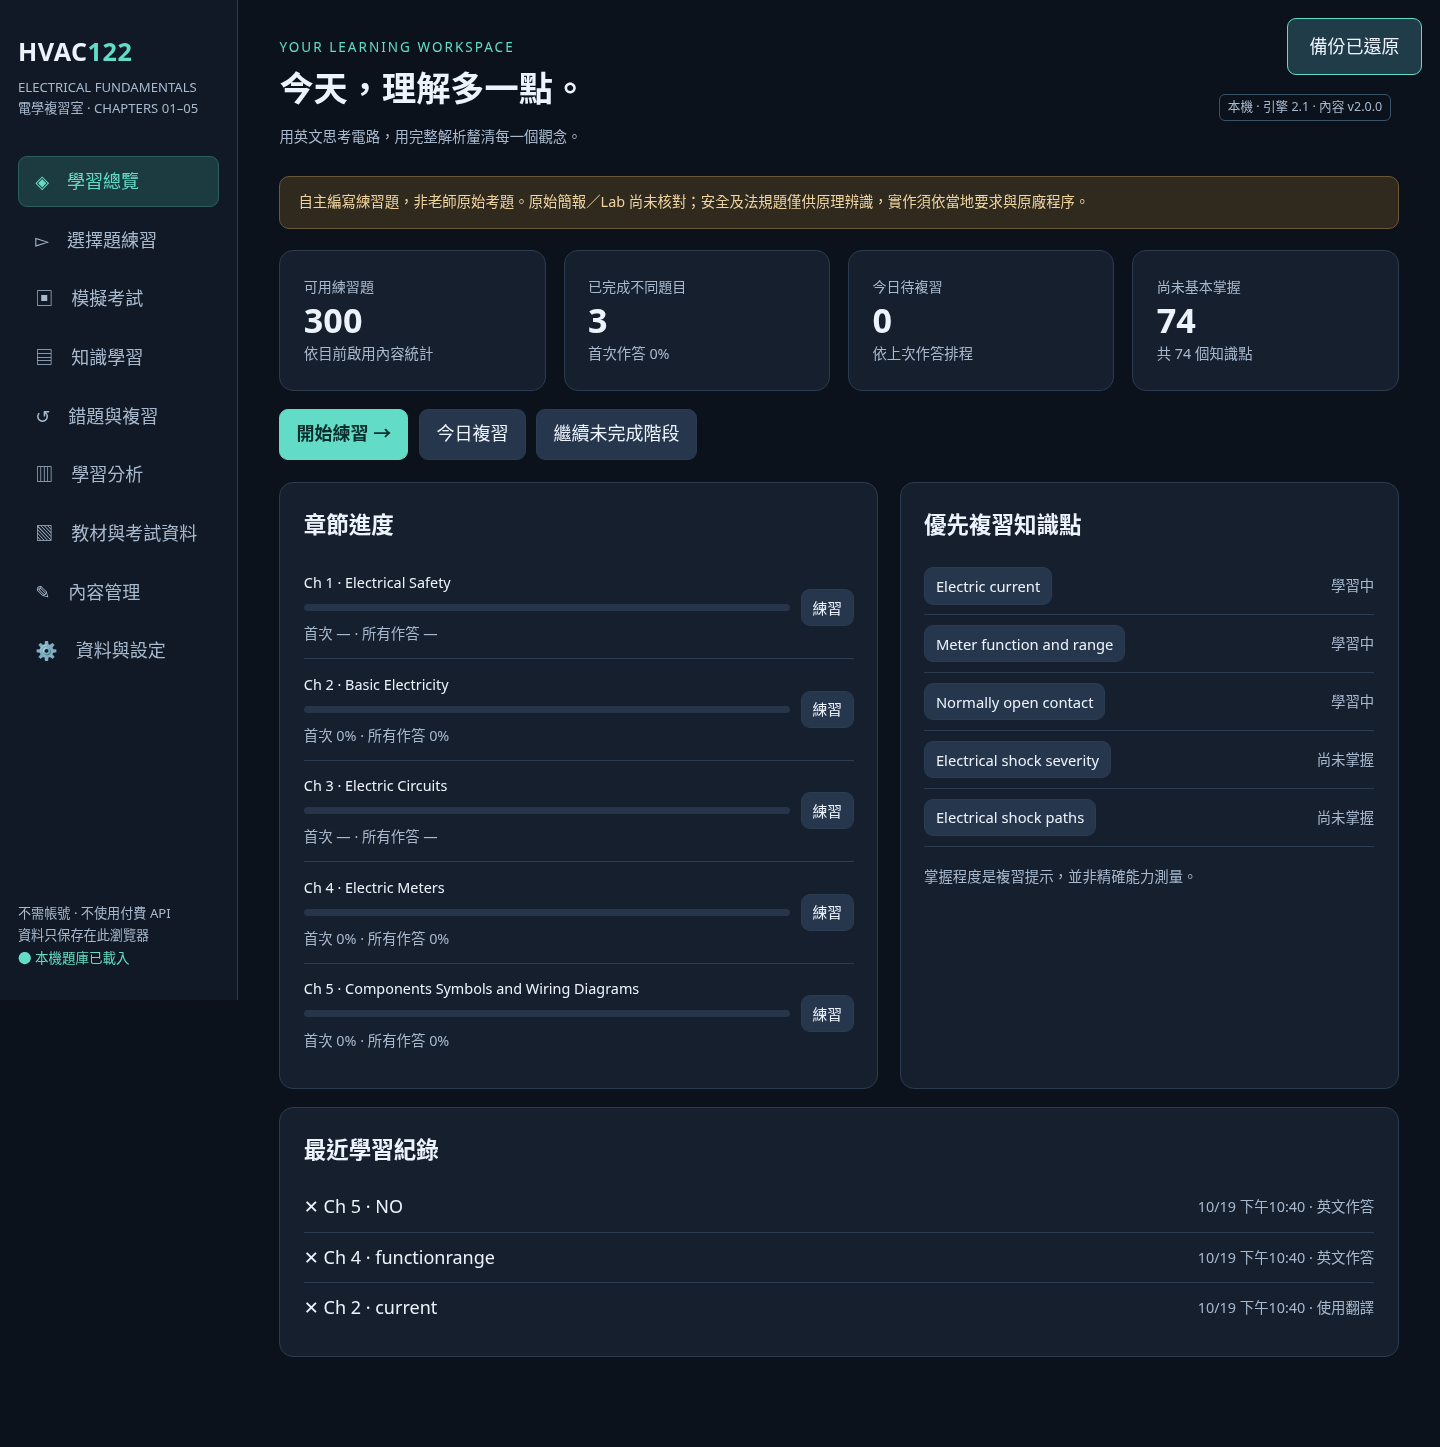
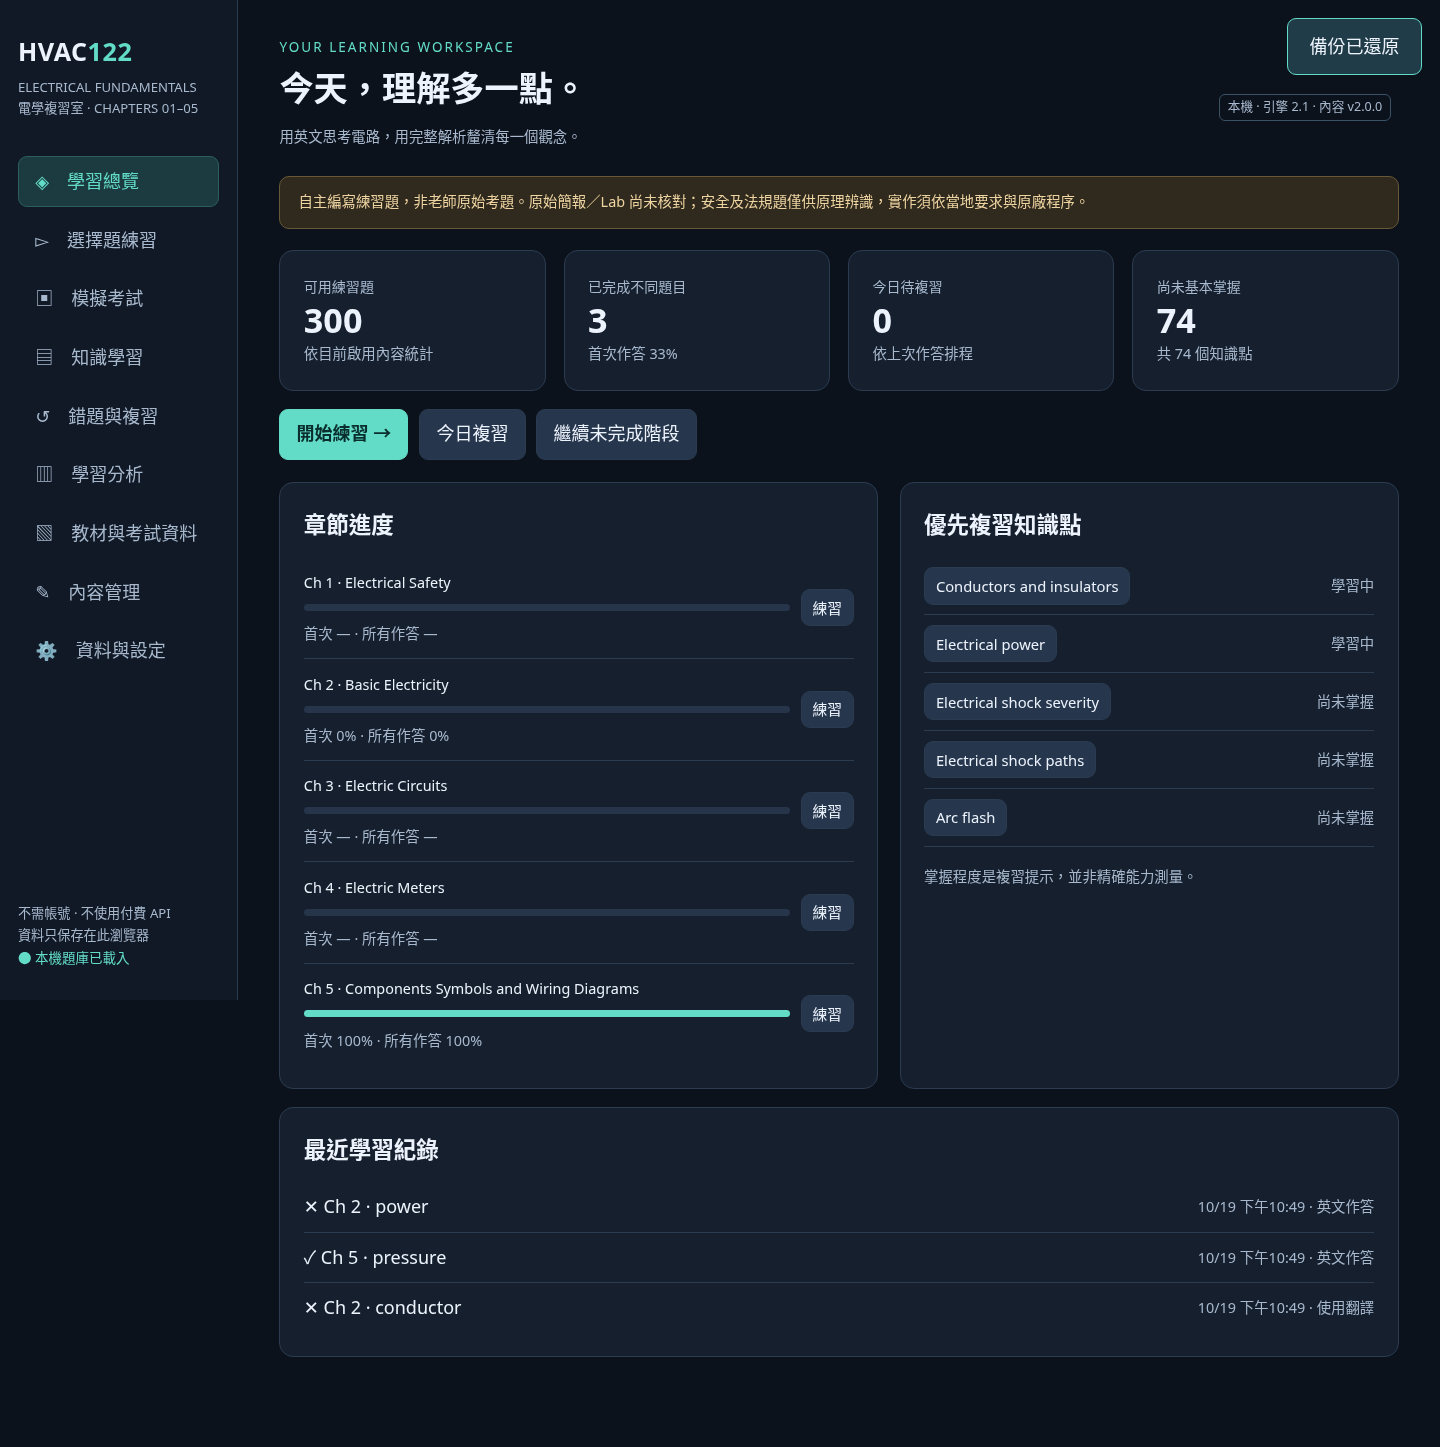
Preserve editor inputs while asynchronously refreshing attachments

diff --git a/app/manage.js b/app/manage.js
@@ -16,7 +16,7 @@ function source(file,record,verified,note){return {file,record,original_verified
 function current(){return edit?pack[tab].find(x=>x.id===edit):null;}
 function save(next){if(draftBroken)throw Error('請先匯出損壞原值並使用「重建草稿」');M.saveDraft(localStorage,next,base);pack=next;preview=null;notify('草稿已保存在此瀏覽器；發布後才套用到練習。');}
 function download(data,name){const a=document.createElement('a');a.href=URL.createObjectURL(new Blob([typeof data==='string'?data:JSON.stringify(data,null,2)],{type:'application/json'}));a.download=name;a.click();setTimeout(()=>URL.revokeObjectURL(a.href),1500);}
-async function refreshFiles(){try{files=await HVAC_MATERIALS.list();fileWarning='';}catch(err){fileWarning=err.message;}if(tab==='resources')render();}
+async function refreshFiles(){try{files=await HVAC_MATERIALS.list();fileWarning='';}catch(err){fileWarning=err.message;}if(tab==='resources'){const list=$('#attachment-list'),notice=$('#attachment-warning');if(list)list.innerHTML=fileRows();if(notice){notice.textContent=fileWarning;notice.className=fileWarning?'notice':'';}}}
 function render(){const report=M.inspect(pack);$('#manager').innerHTML=`<div class="layout"><aside class="sidebar"><div class="brand">HVAC<span>122</span></div><div class="subbrand">CONTENT WORKSPACE<br>系統底座 · 內容與程式分離</div><a href="index.html" class="back-link">← 回到練習工具</a><nav class="nav">${Object.entries(names).map(([id,n])=>`<button data-action="tab" data-id="${id}" class="${tab===id?'active':''}">${n}</button>`).join('')}</nav><div class="foot">本機管理，沒有登入／雲端上傳<br>編輯 → 儲存草稿 → 檢查 → 發布</div></aside><main class="main"><div class="eyebrow">REUSABLE LEARNING FOUNDATION · 2.1</div><h1>${names[tab]}</h1><p class="muted">程式引擎固定，教材、題目與考試可以持續補充。</p>${warning?`<div class="notice">${e(warning)} <button data-action="raw">下載儲存原值</button>${draftBroken?'<button data-action="repair">重建草稿</button>':''}</div>`:''}<div class="notice">這是本機內容管理入口，不是具帳號權限的多人後台。請先匯出備份；關閉瀏覽器不等於已發布內容。發布不會覆寫學習紀錄或原始教材。</div>${tab==='home'?home(report):tab==='exchange'?exchange():editorPage()}<div id="result" aria-live="polite"></div></main></div>`;}
 function home(report){const r=report.stats;return `<div class="grid">${[['題目',r.questions],['已啟用／草稿',r.enabled+' / '+r.drafts],['知識點',r.knowledge],['考試設定',r.exams]].map(([a,b])=>`<div class="card"><div class="metric-label">${a}</div><div class="metric">${b}</div></div>`).join('')}</div><section class="card"><h2>這一份內容的設定</h2><div class="forms">${field('pack-title','課程／內容名稱',pack.title)}${field('pack-version','內容版本（變更內容必須換版）',pack.version===active.version?pack.version+'-local.1':pack.version)}</div><div class="actions"><button data-action="meta">儲存名稱與版本</button><button class="primary" data-action="publish-preview">檢查並準備發布</button><button data-action="export">匯出完整內容包</button></div><p class="muted smalltext mt">啟用中的版本：${e(active.version)}。首頁及練習只會載入最後發布的版本。發布後回到練習頁重新載入即可。</p>${preview?`<div class="notice mt"><strong>發布預覽</strong><p>${preview.stats.enabled} 題可練習、${preview.stats.drafts} 題保持草稿、${pack.examProfiles.filter(x=>x.enabled).length} 組已啟用考試、${preview.stats.resources} 份文字教材。${preview.warnings.length} 項重複提醒。</p><p>未完成的練習／考試遇到移除題目可能無法接續，請先完成或備份。既有作答紀錄會保留。</p><button class="primary" data-action="publish">確認啟用此內容</button></div>`:''}</section><section class="card"><h2>下一步怎麼填內容</h2><ol><li>在「知識點編輯」建立或選擇題目所對應的知識點。</li><li>在「題庫編輯」填雙語題目、四選項、答案及逐項解析，先儲存草稿。</li><li>在「教材／考試資料」貼上課程筆記，或保存本機原始文件。</li><li>在「考試設定」建立章節／題型篩選或指定題目清單。</li><li>核對新題後勾選啟用，再回總覽更新版本、檢查並發布。</li></ol><p class="muted">AI 可以使用匯出的完整內容包及範例格式協助整理；工具本身不呼叫 AI，也不會自動把教材上傳給 AI。</p></section><section class="card"><h2>版本與復原</h2><div class="actions"><button data-action="previous">將上次發布內容載入草稿</button><button data-action="builtin">將內建內容載入草稿</button></div><p class="muted smalltext mt">這些動作只替換草稿，不會立刻改變練習題庫；先匯出目前草稿，再按發布才會套用。</p></section>`;}
 function editorPage(){const all=pack[tab],filtered=all.filter(x=>!search||JSON.stringify(x).toLowerCase().includes(search.toLowerCase())),x=current();
@@ -26,7 +26,8 @@ function questionForm(q){q=q||{};return `<div class="forms">${field('id','Questi
 function knowledgeForm(k){k=k||{};return `<div class="forms">${field('id','Knowledge ID',k.id||uid('USER-K'))}${chapterSelect('chapter',k.chapter||1)}${field('term-en','English Term',k.term_en||'')}${field('term-zh','繁體中文名稱',k.term_zh||'')}${field('topic','Topic',k.topic_key||'')}${select('class','內容分類',[['technical_principle','技術原理'],['classroom_model','課堂簡化模型'],['safety_principle','安全原理'],['unverified','待核對']],k.content_class||'unverified')}</div>${field('definition','英文定義',k.definition_en||'',true)}${field('explanation','中文原理解釋',k.explanation_zh||'',true)}${field('application','HVAC 應用',k.hvac_application||'',true)}${field('formulas','相關公式（每行一個，可留空）',(k.related_formulas||[]).join('\n'),true)}${field('misconceptions','常見誤解（每行一個）',(k.common_misconceptions||[]).join('\n'),true)}${field('exam-note','課堂／考試簡化說法',k.exam_note_en||'No course-specific simplification has been verified.',true)}${field('source','來源位置／檔名',k.source_reference?.file||'local-authoring')}${field('limitations','來源限制',k.source_limitations||'原始講義與適用條件尚待核對。',true)}`;}
 function examForm(x){x=x||{};return `<div class="forms">${field('id','Exam ID',x.id||uid('EXAM'))}${field('name','考試名稱',x.name||'')}${field('count','題數（1–300）',x.count||20)}${field('minutes','分鐘（留空為不計時）',x.minutes??'')}${field('chapters','章節篩選（逗號分隔，例如 1,2；空白全選）',(x.chapters||[]).join(','))}${field('types','題型篩選（逗號分隔；空白全選）',(x.types||[]).join(','))}</div><p class="muted smalltext">題型：recall、understanding、application、calculation。</p>${field('fixed-ids','指定題目 ID（每行一題；填入時優先於章節／題型篩選）',(x.questionIds||[]).join('\n'),true)}${field('description','考試說明',x.description||'',true)}${check('enabled','啟用此考試設定',x.enabled)}<p class="muted smalltext">啟用時會檢查可用題數，草稿／停用題不能進考試。試題與正解仍由現有練習引擎處理。</p>`;}
 function resourceForm(r){r=r||{};return `<div class="forms">${field('id','Resource ID',r.id||uid('NOTE'))}${field('title','教材／考試資料標題',r.title||'')}${chapterSelect('chapter',r.chapter||'',true)}${select('kind','分類',[['lecture','課堂教材'],['lab','Lab'],['exam','考試資料'],['other','其他']],r.kind||'lecture')}</div>${field('text','教材文字／考試範圍說明',r.text||'',true)}${field('source','原始來源位置',r.source||'使用者輸入')}${check('verified','已對照原始來源',r.verified)}<p class="muted smalltext">文字只作教材保存，不會自動變成題目或正確答案。</p>`;}
-function attachmentPanel(){return `<section class="card"><h2>原始文件附件（保存在此瀏覽器）</h2><p class="muted smalltext">可保存 PDF、PPTX、DOCX、圖片等，每份上限 25 MB。不會上傳或自動解析；教材與考試文件可保留給日後人工或 AI 整理。</p>${fileWarning?`<div class="notice">${e(fileWarning)}</div>`:''}<div class="forms">${select('file-kind','附件分類',[['lecture','教材'],['lab','Lab'],['exam','考試'],['other','其他']],'lecture')}${chapterSelect('file-chapter','',true)}<label>選擇本機文件<input type="file" id="attachment"></label></div><p class="notice">內容包 JSON 不含原始附件。請保留原檔或逐份下載；清除瀏覽器資料會移除附件。</p>${files.map(f=>`<div class="row"><div><strong>${e(f.name)}</strong><div class="muted smalltext">${e(f.kind)} · ${Math.round(f.size/1024)} KB · ${f.chapter?'Ch '+f.chapter:'未指定章節'}</div></div><button data-action="file-download" data-id="${e(f.id)}">下載原檔</button></div>`).join('')||'<p class="muted">尚未保存附件。</p>'}</section>`;}
+function fileRows(){return files.map(f=>`<div class="row"><div><strong>${e(f.name)}</strong><div class="muted smalltext">${e(f.kind)} · ${Math.round(f.size/1024)} KB · ${f.chapter?'Ch '+f.chapter:'未指定章節'}</div></div><button data-action="file-download" data-id="${e(f.id)}">下載原檔</button></div>`).join('')||'<p class="muted">尚未保存附件。</p>';}
+function attachmentPanel(){return `<section class="card"><h2>原始文件附件（保存在此瀏覽器）</h2><p class="muted smalltext">可保存 PDF、PPTX、DOCX、圖片等，每份上限 25 MB。不會上傳或自動解析；教材與考試文件可保留給日後人工或 AI 整理。</p><div id="attachment-warning" class="${fileWarning?'notice':''}">${e(fileWarning)}</div><div class="forms">${select('file-kind','附件分類',[['lecture','教材'],['lab','Lab'],['exam','考試'],['other','其他']],'lecture')}${chapterSelect('file-chapter','',true)}<label>選擇本機文件<input type="file" id="attachment"></label></div><p class="notice">內容包 JSON 不含原始附件。請保留原檔或逐份下載；清除瀏覽器資料會移除附件。</p><div id="attachment-list">${fileRows()}</div></section>`;}
 function exchange(){return `<section class="card"><h2>匯出給人或 AI 接手</h2><p>「完整內容包」包含章節、知識點、題目、考試設定與文字教材；不包含學習紀錄及原始附件。</p><div class="actions"><button class="primary" data-action="export">匯出目前完整內容包</button><button data-action="example">下載空白範例內容包</button><button data-action="ai-guide">下載 AI 接手指示</button></div><p class="muted smalltext mt">之後讓 AI 修改這份內容包，再匯入即可。開發者完整契約在交付包的 FOUNDATION.md 及 templates/，不需要 AI 重寫引擎。</p></section><section class="card"><h2>匯入內容包 JSON</h2>${select('import-mode','匯入方式',[['merge','依 ID 合併進目前草稿'],['replace','整份取代草稿']],importMode)}<label class="mt">選擇內容包<input type="file" id="content-import" accept=".json,application/json"></label>${imported?`<div class="notice mt">已讀取 ${e(imported.pack.title)}，${imported.report.stats.questions} 題、${imported.report.stats.knowledge} 知識點、${imported.report.stats.exams} 考試設定。${imported.report.warnings.length} 項提醒。<button data-action="apply-import">確認寫入草稿</button></div>`:''}<p class="muted smalltext mt">先檢查格式、答案鍵、Knowledge ID 及計算結果。匯入只改草稿，不會直接啟用；核對後再發布。不支援直接把 PDF 解析為題庫。</p></section><section class="card"><h2>固定契約</h2><p>format: <code>hvac122-content-pack</code> · schemaVersion: <code>1</code></p><p>內容陣列：chapters、knowledge、questions、examProfiles、resources。題目新增需穩定 ID、雙語、四選項、唯一正解、逐項解析、來源及啟用狀態。AI 新題預設 <code>eligible: false</code>。</p><p>允許的計算模型：${Object.keys({ohm_current:1,ohm_voltage:1,ohm_resistance:1,power_vi:1,power_i2r:1,power_v2r:1,power_pf:1,energy:1,horsepower:1,series:1,divider:1,parallel:1,current_sum:1,clamp:1,tolerance:1}).map(e).join('、')}。</p></section>`;}
 function example(){const p=M.clone(base),k=M.clone(p.knowledge[0]),q=M.clone(p.questions.find(q=>q.knowledge_ids.includes(k.id)));k.id='USER-K-001';q.id='USER-Q-001';q.knowledge_ids=[k.id];q.eligible=false;q.publishedOnce=false;q.verification_status='draft';q.source_reference=source('請填實際來源',k.id,false,'範例欄位，請改成實際題目並核對。');k.related_question_ids=[q.id];p.version='example-1';p.title='請替換為你的內容名稱';p.knowledge=[k];p.questions=[q];p.examProfiles=[{id:'EXAM-001',name:'自訂考試範例',description:'核對並啟用題目後再啟用此設定。',count:1,minutes:null,chapters:[k.chapter],types:[],questionIds:[],enabled:false}];p.resources=[];return p;}
 function aiGuide(){return '請以 HVAC-122 系統底座為基礎，只新增或修改內容包，不要重寫 app/ 引擎。\n\n1. 讀取匯出的完整 JSON 及 FOUNDATION.md。內容契約為 hvac122-content-pack，schemaVersion 1。\n2. 沿用未改題目的 ID；改變已發布題目的題幹、選項、正解、章節或知識連結時，建立新 ID 並停用舊題，保留歷史。\n3. 新題 eligible=false，verification_status=draft。不要冒稱已核對原始教材或老師原題。\n4. 每題四個合理雙語選項、唯一最佳答案、英中整題解析及 A–D 逐項解析；Knowledge ID 必須存在。\n5. 計算題附支援模型的 inputs、answer、unit；不可用程式碼或 eval 代替模型。\n6. 考試設定只引用已存在題目，未啟用題不得進考試；題數不可超出可用題數。\n7. 原始文件只在獲授權的環境整理，不自動上傳教材。不能確定的內容保持草稿。\n8. 提交可直接匯入的完整內容包 JSON、改動摘要及待核對清單。只改內容時不修改學習紀錄或系統設定。\n';}
@@ -64,7 +65,7 @@ $('#manager').addEventListener('click',async ev=>{const b=ev.target.closest('[da
 $('#manager').addEventListener('change',async ev=>{const el=ev.target;try{
  if(el.id==='import-mode'){importMode=el.value;imported=null;render();return;}
  if(el.id==='content-import'&&el.files[0]){if(el.files[0].size>50*1024*1024)throw Error('內容包超過 50 MB');const p=M.validate(JSON.parse(await el.files[0].text()));importMode=value('import-mode');const next=importMode==='replace'?M.clone(p):M.merge(pack,p);imported={pack:p,next,report:M.inspect(next)};render();}
- if(el.id==='attachment'&&el.files[0]){await HVAC_MATERIALS.put(el.files[0],value('file-kind'),value('file-chapter')?Number(value('file-chapter')):null);notify('原始附件已保存在此瀏覽器，不會上傳。');await refreshFiles();}
+ if(el.id==='attachment'&&el.files[0]){await HVAC_MATERIALS.put(el.files[0],value('file-kind'),value('file-chapter')?Number(value('file-chapter')):null);el.value='';notify('原始附件已保存在此瀏覽器，不會上傳。');await refreshFiles();}
 }catch(err){imported=null;notify(err.message);}});
 render();
 })();

diff --git a/scripts/run_tests.py b/scripts/run_tests.py
@@ -1,7 +1,7 @@
 """Run reproducible checks; BLOCKED is never converted to PASS."""
 import subprocess,sys,pathlib,json,datetime
 ROOT=pathlib.Path(__file__).resolve().parents[1]
-commands=[('bank_audit',[sys.executable,'tests/audit_bank.py'],12),('core_logic',['node','tests/test_core.cjs'],14),('render_event_harness',['node','tests/ui_harness.cjs'],9),('content_contract',['node','tests/test_content.cjs'],17),('management_harness',['node','tests/manager_harness.cjs'],9),('content_schema_cli',[sys.executable,'tests/audit_content.py'],6)]
+commands=[('bank_audit',[sys.executable,'tests/audit_bank.py'],12),('core_logic',['node','tests/test_core.cjs'],14),('render_event_harness',['node','tests/ui_harness.cjs'],9),('content_contract',['node','tests/test_content.cjs'],17),('management_harness',['node','tests/manager_harness.cjs'],10),('content_schema_cli',[sys.executable,'tests/audit_content.py'],6)]
 if '--browser' in sys.argv:
  commands.append(('real_browser',[sys.executable,'tests/browser_smoke.py'],None))
  commands.append(('real_content_browser',[sys.executable,'tests/browser_content_smoke.py'],None))

diff --git a/reports/TEST_REPORT.md b/reports/TEST_REPORT.md
@@ -8,13 +8,13 @@
 | 練習與間隔複習領域邏輯 | 14 | PASS |
 | 練習 VM 介面模擬 | 9 | PASS |
 | 內容契約／發布／版本保護 | 17 | PASS |
-| 管理 VM 介面模擬與練習整合 | 9 | PASS |
+| 管理 VM 介面模擬與練習整合 | 10 | PASS |
 | 內容 Schema／CLI／可攜建置 | 6 | PASS |
 | 真實 Chromium 練習驗收 | 11 個流程檢查點 | PASS |
 | 真實 Chromium 管理與附件驗收 | 5 個流程檢查點 | PASS |
 | Windows CMD／PowerShell | 0 | NOT RUN |
 
-合計 **67 個資料／邏輯／模擬測試與 16 個真實瀏覽器流程檢查點通過**，總命令結束碼 0。Windows 啟動尚未實機驗證。
+合計 **68 個資料／邏輯／模擬測試與 16 個真實瀏覽器流程檢查點通過**，總命令結束碼 0。Windows 啟動尚未實機驗證。
 
 ## 真實瀏覽器覆蓋
 
@@ -37,3 +37,7 @@
 公開版以「不包含私人原始教材／壓縮檔」檢查取代私用交付的原 ZIP 逐位元比較；不需要私人附件即可重建。原始課程／教學專家核對仍未完成，程式驗收不取代來源核對。
 
 CI 已提供 Linux 單元及真實 Chromium 流程。GitHub Actions 的線上狀態仍以實際執行結果為準。重跑時生成的 logs／JSON 不納入公開版本。
+
+## 線上 CI 回歸
+
+線上較快的檔案選擇動作暴露管理頁初次讀取附件清單時重畫整頁的競態，可能移除正在操作的檔案輸入並遺失未儲存筆記。改成只更新附件清單及錯誤區，不重建表單／輸入，並新增延遲清單回覆時保留未儲存表單的回歸測試。

diff --git a/README.md b/README.md
@@ -101,7 +101,7 @@ node scripts/content_cli.cjs build merged.json C:\HVAC122_CustomBuild
 
 匯出／合併輸出檔及 build 目錄需為新路徑，避免覆蓋既有檔案。
 
-本次 **67 項資料／邏輯／模擬檢查通過**，另有 **16 個真實 Chromium 流程檢查點通過**：離線作答、翻譯、程序重開保存、考試解析隔離、備份還原、內容發布及 IndexedDB 附件逐位元保存。Windows CMD／PowerShell **尚未實機驗證**。CI 狀態請看 GitHub Actions，不預先宣稱線上執行通過。
+本次 **68 項資料／邏輯／模擬檢查通過**，另有 **16 個真實 Chromium 流程檢查點通過**：離線作答、翻譯、程序重開保存、考試解析隔離、備份還原、內容發布及 IndexedDB 附件逐位元保存。Windows CMD／PowerShell **尚未實機驗證**。CI 狀態請看 GitHub Actions，不預先宣稱線上執行通過。
 
 ## 目錄
 

diff --git a/CHANGELOG.md b/CHANGELOG.md
@@ -1,5 +1,10 @@
 # Changelog
 
+## 2.1.1
+
+- 附件清單非同步載入改為局部更新，保留上傳欄位及未儲存表單。
+- 新增延遲回覆回歸，68 項邏輯／資料／模擬檢查與 16 個真實瀏覽器流程檢查點通過。
+
 ## 2.1.0
 
 - 可重複使用的離線練習／知識庫／考試引擎，英題與繁體中文翻譯。
